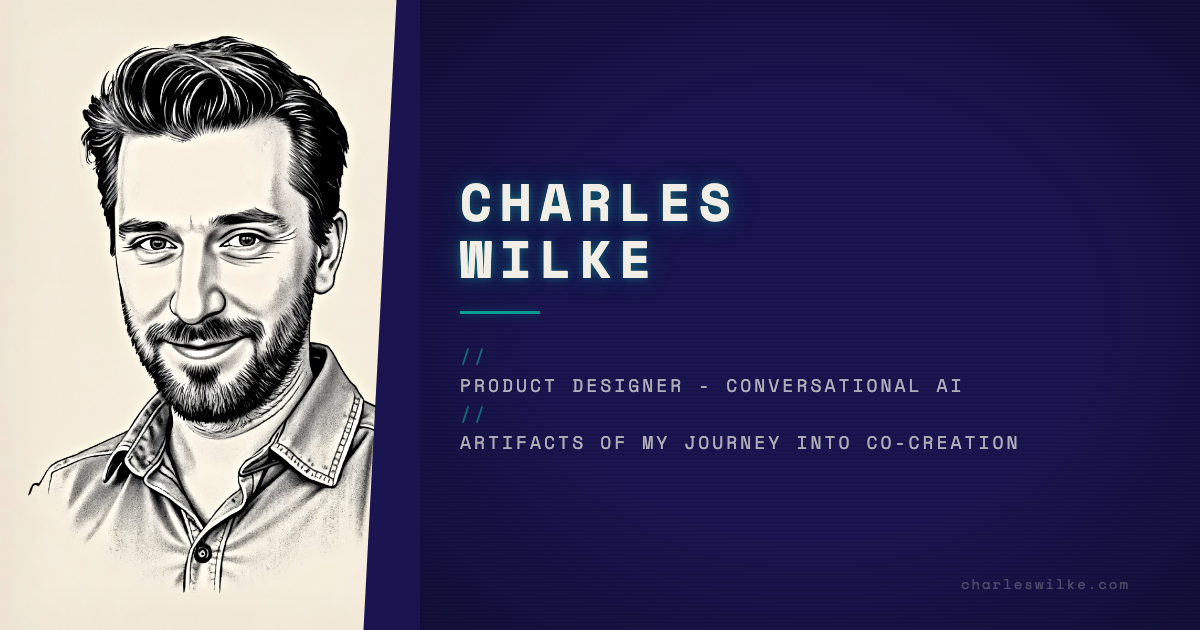
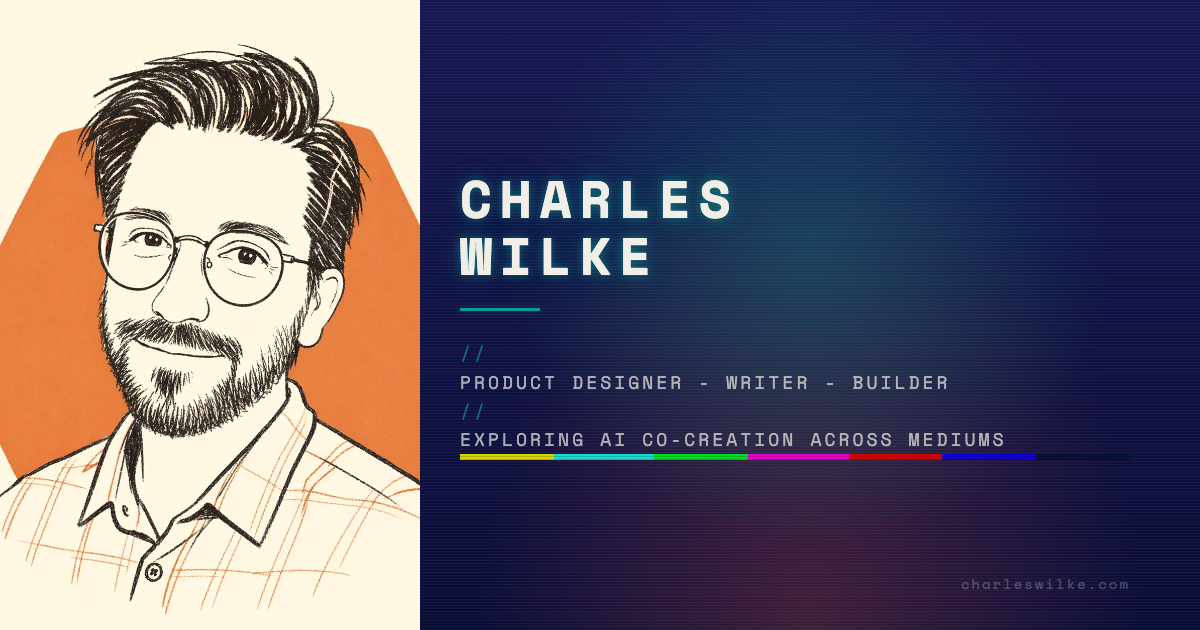
Identity refresh continued: tightened section shadows, OG card with rss-feed broadcast treatment
Section dividers: replace yellow border + soft glow with a tight 4px/0.85
inset shadow only on header- and footer-adjacent edges of the cream
sections (.dimensional-showcase top, .chatgpt-blurb bottom, .faq-section
both); inner section transitions are now clean.

OG card (og-image.html → images/og-image.png): swap portrait to cw4, drop
the diagonal slice for a straight edge, retitle subtitle to product
designer / writer / builder + exploring ai co-creation across mediums,
add the rss-feed broadcast treatment behind the text (cyan radio waves
radiating from the portrait) plus the SMPTE colorbar accent and the
site's 1px-on-3px cyan scanlines.

Cache bump to 20260514f including a fresh og-image cache buster so
social platforms refetch the new card.

diff --git a/og-image.html b/og-image.html
@@ -39,19 +39,8 @@ body {
     filter: grayscale(0.1) contrast(1.05);
 }
 
-/* Diagonal slice between portrait and right side */
-.og-portrait::after {
-    content: '';
-    position: absolute;
-    top: 0;
-    right: -40px;
-    width: 80px;
-    height: 100%;
-    background: #1a1550;
-    transform: skewX(-3deg);
-}
 
-/* Right: CRT content */
+/* Right: CRT content — mirrors the rss-feed background on the live site */
 .og-content {
     flex: 1;
     display: flex;
@@ -60,33 +49,73 @@ body {
     padding: 60px 70px 60px 40px;
     position: relative;
     overflow: hidden;
+    background:
+        radial-gradient(ellipse at 50% 40%, rgba(0, 247, 194, 0.18) 0%, transparent 55%),
+        radial-gradient(ellipse at 50% 100%, rgba(255, 90, 54, 0.22) 0%, transparent 60%),
+        linear-gradient(180deg, #1a1550 0%, #0e0a36 100%);
 }
 
-/* Scanlines */
+/* Radar sweep rings + vignette — matches the rss-feed::after on the live site,
+   but punched up so the rings actually read at 1200×630 thumbnail sizes */
+.og-radar {
+    position: absolute;
+    inset: 0;
+    background-image:
+        repeating-radial-gradient(
+            circle at -180px 230px,
+            transparent 0px,
+            transparent 70px,
+            rgba(0, 247, 194, 0.85) 70px,
+            rgba(0, 247, 194, 0.85) 74px
+        );
+    pointer-events: none;
+    z-index: 1;
+}
+
+/* Scanlines — matches the site's rss-feed cadence (1px on 3px) */
 .og-content::before {
     content: '';
     position: absolute;
     inset: 0;
     background: repeating-linear-gradient(
         0deg,
-        transparent 0px,
-        transparent 3px,
-        rgba(0, 0, 0, 0.15) 3px,
-        rgba(0, 0, 0, 0.15) 4px
+        rgba(0, 247, 194, 0.08) 0px,
+        rgba(0, 247, 194, 0.08) 1px,
+        transparent 1px,
+        transparent 3px
     );
     pointer-events: none;
     z-index: 2;
 }
 
-/* Subtle vignette */
-.og-content::after {
-    content: '';
+/* SMPTE colorbar accent strip across the bottom */
+.og-colorbar {
     position: absolute;
-    inset: 0;
-    background: radial-gradient(ellipse at center, transparent 50%, rgba(0, 0, 0, 0.3) 100%);
-    pointer-events: none;
-    z-index: 1;
+    bottom: 0;
+    left: 0;
+    right: 0;
+    height: 6px;
+    background:
+        repeating-linear-gradient(
+            0deg,
+            rgba(0, 0, 0, 0.16) 0px,
+            rgba(0, 0, 0, 0.16) 1px,
+            transparent 1px,
+            transparent 3px
+        ),
+        linear-gradient(
+            90deg,
+            #d8d300 0 14%,
+            #18d8d0 14% 29%,
+            #00d922 29% 43%,
+            #e500cb 43% 58%,
+            #d50000 58% 72%,
+            #1000d7 72% 86%,
+            #0b1036 86% 100%
+        );
+    z-index: 4;
 }
+
 
 .og-content > * {
     position: relative;
@@ -149,16 +178,18 @@ body {
 <body>
 <div class="og-card">
     <div class="og-portrait">
-        <img src="images/cw3.webp" alt="Charles Wilke">
+        <img src="images/cw4.webp" alt="Charles Wilke">
     </div>
     <div class="og-content">
+        <div class="og-radar"></div>
         <div class="og-name">Charles<br>Wilke</div>
         <div class="og-divider"></div>
         <div class="og-subtitle">
-            <span><span class="og-slash">//</span> product designer - conversational ai</span>
-            <span><span class="og-slash">//</span> artifacts of my journey into co-creation</span>
+            <span><span class="og-slash">//</span> product designer - writer - builder</span>
+            <span><span class="og-slash">//</span> exploring ai co-creation across mediums</span>
         </div>
         <div class="og-url">charleswilke.com</div>
+        <div class="og-colorbar"></div>
     </div>
 </div>
 </body>

diff --git a/styles.css b/styles.css
@@ -997,19 +997,7 @@ footer .electric {
     z-index: 2;
     overflow: hidden;
     isolation: isolate;
-    border-top: 4px solid #fff4a3;
-    border-bottom: 4px solid #fff4a3;
-    box-shadow:
-        0 -2px 4px rgba(255, 244, 163, 0.42),
-        0 -2px 10px rgba(255, 221, 51, 0.42),
-        0 -2px 20px rgba(255, 200, 0, 0.315),
-        0 -2px 32px rgba(255, 170, 0, 0.21),
-        0 2px 4px rgba(255, 244, 163, 0.42),
-        0 2px 10px rgba(255, 221, 51, 0.42),
-        0 2px 20px rgba(255, 200, 0, 0.315),
-        0 2px 32px rgba(255, 170, 0, 0.21),
-        inset 0 6px 14px rgba(255, 221, 51, 0.147),
-        inset 0 -6px 14px rgba(255, 221, 51, 0.147);
+    box-shadow: inset 0 4px 3px -1px rgba(0, 0, 0, 0.85);
 }
 
 .dimensional-showcase::before {
@@ -2100,19 +2088,9 @@ section.production-header.alice .production-details p strong {
     padding: 0;
     min-height: unset;
     display: block;
-    border-top: 4px solid #fff4a3;
-    border-bottom: 4px solid #fff4a3;
     box-shadow:
-        0 -2px 4px rgba(255, 244, 163, 0.42),
-        0 -2px 10px rgba(255, 221, 51, 0.42),
-        0 -2px 20px rgba(255, 200, 0, 0.315),
-        0 -2px 32px rgba(255, 170, 0, 0.21),
-        0 2px 4px rgba(255, 244, 163, 0.42),
-        0 2px 10px rgba(255, 221, 51, 0.42),
-        0 2px 20px rgba(255, 200, 0, 0.315),
-        0 2px 32px rgba(255, 170, 0, 0.21),
-        inset 0 6px 14px rgba(255, 221, 51, 0.147),
-        inset 0 -6px 14px rgba(255, 221, 51, 0.147);
+        inset 0 4px 3px -1px rgba(0, 0, 0, 0.85),
+        inset 0 -4px 3px -1px rgba(0, 0, 0, 0.85);
 }
 
 /* Rotated dot texture matching the dimensional-showcase / chatgpt-blurb sections */
@@ -5816,19 +5794,7 @@ html {
     z-index: 2;
     overflow: hidden;
     isolation: isolate;
-    border-top: 4px solid #fff4a3;
-    border-bottom: 4px solid #fff4a3;
-    box-shadow:
-        0 -2px 4px rgba(255, 244, 163, 0.42),
-        0 -2px 10px rgba(255, 221, 51, 0.42),
-        0 -2px 20px rgba(255, 200, 0, 0.315),
-        0 -2px 32px rgba(255, 170, 0, 0.21),
-        0 2px 4px rgba(255, 244, 163, 0.42),
-        0 2px 10px rgba(255, 221, 51, 0.42),
-        0 2px 20px rgba(255, 200, 0, 0.315),
-        0 2px 32px rgba(255, 170, 0, 0.21),
-        inset 0 6px 14px rgba(255, 221, 51, 0.147),
-        inset 0 -6px 14px rgba(255, 221, 51, 0.147);
+    box-shadow: inset 0 -4px 3px -1px rgba(0, 0, 0, 0.85);
 }
 
 .chatgpt-blurb::before {

diff --git a/index.html b/index.html
@@ -13,7 +13,7 @@
     <!-- Open Graph Meta Tags -->
     <meta property="og:title" content="Charles Wilke | Product Designer, Writer & Builder">
     <meta property="og:description" content="Conversational UX Product Designer, Writer and AI co-creation explorer.">
-    <meta property="og:image" content="https://charleswilke.com/images/og-image.png">
+    <meta property="og:image" content="https://charleswilke.com/images/og-image.png?v=20260514f">
     <meta property="og:image:width" content="1200">
     <meta property="og:image:height" content="630">
     <meta property="og:image:alt" content="Charles Wilke - Professional Portrait">
@@ -25,9 +25,9 @@
     <meta name="twitter:card" content="summary_large_image">
     <meta name="twitter:title" content="Charles Wilke | Product Designer, Writer & Builder">
     <meta name="twitter:description" content="Conversational UX Product Designer, Writer and AI co-creation explorer.">
-    <meta name="twitter:image" content="https://charleswilke.com/images/og-image.png">
+    <meta name="twitter:image" content="https://charleswilke.com/images/og-image.png?v=20260514f">
     <meta name="twitter:image:alt" content="Charles Wilke - Professional Portrait">
-    <link rel="stylesheet" href="styles.css?v=20260514e">
+    <link rel="stylesheet" href="styles.css?v=20260514f">
     <!-- Favicons / Pinned color -->
     <link rel="icon" href="/favicon.ico" sizes="any">
     <link rel="icon" type="image/gif" href="/favicon.gif">
@@ -51,7 +51,7 @@
       "name": "Charles Wilke",
       "url": "https://charleswilke.com",
       "jobTitle": "Product Designer, Writer & Builder",
-      "image": "https://charleswilke.com/images/og-image.png",
+      "image": "https://charleswilke.com/images/og-image.png?v=20260514f",
       "sameAs": [
         "https://www.linkedin.com/in/charles-wilke/",
         "https://instagram.com/tootsieonions",
@@ -60,7 +60,7 @@
       ]
     }
     </script>
-    <script src="/nav.js?v=20260514e"></script>
+    <script src="/nav.js?v=20260514f"></script>
 
     <header>
         <div class="header-bg"></div>
@@ -675,7 +675,7 @@
         <img class="cover-zoom-img" id="coverZoomImg" alt="">
     </div>
 
-    <script src="common.js?v=20260514e" defer></script>
-<script src="main.js?v=20260514e" defer></script>
+    <script src="common.js?v=20260514f" defer></script>
+<script src="main.js?v=20260514f" defer></script>
 </body>
 </html>

diff --git a/faq.html b/faq.html
@@ -11,7 +11,7 @@
     <link rel="canonical" href="https://charleswilke.com/faq.html">
     <meta property="og:title" content="FAQ | Charles Wilke">
     <meta property="og:description" content="Frequently asked questions about Charles Wilke, AI deployment consulting, projection design, and the exploring l.ai.bor project.">
-    <meta property="og:image" content="https://charleswilke.com/images/og-image.png">
+    <meta property="og:image" content="https://charleswilke.com/images/og-image.png?v=20260514f">
     <meta property="og:image:alt" content="Charles Wilke - Professional Portrait">
     <meta property="og:url" content="https://charleswilke.com/faq.html">
     <meta property="og:type" content="website">
@@ -20,9 +20,9 @@
     <meta name="twitter:card" content="summary_large_image">
     <meta name="twitter:title" content="FAQ | Charles Wilke">
     <meta name="twitter:description" content="Frequently asked questions about Charles Wilke, AI deployment consulting, projection design, and the exploring l.ai.bor project.">
-    <meta name="twitter:image" content="https://charleswilke.com/images/og-image.png">
+    <meta name="twitter:image" content="https://charleswilke.com/images/og-image.png?v=20260514f">
     <meta name="twitter:image:alt" content="Charles Wilke - Professional Portrait">
-    <link rel="stylesheet" href="styles.css?v=20260514e">
+    <link rel="stylesheet" href="styles.css?v=20260514f">
     <!-- Favicons / Fonts -->
     <link rel="icon" href="/favicon.ico" sizes="any">
     <link rel="icon" type="image/gif" href="/favicon.gif">
@@ -78,7 +78,7 @@
       ]
     }
     </script>
-    <script src="/nav.js?v=20260514e"></script>
+    <script src="/nav.js?v=20260514f"></script>
     <header>
         <div class="header-bg"></div>
         <div class="grid-overlay"></div>
@@ -636,7 +636,7 @@
             <span class="footer-note">intention defines probability</span>
         </div>
     </footer>
-    <script src="common.js?v=20260514e" defer></script>
+    <script src="common.js?v=20260514f" defer></script>
 
     <script>
     (function() {

diff --git a/alice-in-wonderland.html b/alice-in-wonderland.html
@@ -26,7 +26,7 @@
     <meta name="twitter:description" content="Full show coverage with AI-assisted projections for UNO's production of Alice in Wonderland.">
     <meta name="twitter:image" content="https://charleswilke.com/images/aiw/aiw1.png">
     <meta name="twitter:image:alt" content="Alice in Wonderland Projection Design">
-    <link rel="stylesheet" href="styles.css?v=20260514e">
+    <link rel="stylesheet" href="styles.css?v=20260514f">
     <!-- Favicons / Fonts -->
     <link rel="icon" href="/favicon.ico" sizes="any">
     <link rel="icon" type="image/gif" href="/favicon.gif">
@@ -36,7 +36,7 @@
     <link href="https://fonts.googleapis.com/css2?family=Exo:wght@400;700&family=Space+Mono:wght@400;700&family=Orbitron:wght@400;700&display=swap" rel="stylesheet">
 </head>
 <body>
-    <script src="/nav.js?v=20260514e"></script>
+    <script src="/nav.js?v=20260514f"></script>
     <header>
         <div class="header-bg"></div>
         <div class="grid-overlay"></div>
@@ -253,7 +253,7 @@
             <span class="footer-note">intention defines probability</span>
         </div>
     </footer>
-    <script src="common.js?v=20260514e" defer></script>
+    <script src="common.js?v=20260514f" defer></script>
 
     <div class="lightbox" id="lightbox">
         <button class="lightbox-close" aria-label="Close lightbox">&times;</button>

diff --git a/jersey-boys.html b/jersey-boys.html
@@ -26,7 +26,7 @@
     <meta name="twitter:description" content="170 AI-assisted projections for Omaha Community Playhouse's production of Jersey Boys.">
     <meta name="twitter:image" content="https://charleswilke.com/images/jb/jb1.webp">
     <meta name="twitter:image:alt" content="Jersey Boys Projection Design">
-    <link rel="stylesheet" href="styles.css?v=20260514e">
+    <link rel="stylesheet" href="styles.css?v=20260514f">
     <!-- Favicons / Fonts -->
     <link rel="icon" href="/favicon.ico" sizes="any">
     <link rel="icon" type="image/gif" href="/favicon.gif">
@@ -36,7 +36,7 @@
     <link href="https://fonts.googleapis.com/css2?family=Exo:wght@400;700&family=Space+Mono:wght@400;700&family=Orbitron:wght@400;700&display=swap" rel="stylesheet">
 </head>
 <body>
-    <script src="/nav.js?v=20260514e"></script>
+    <script src="/nav.js?v=20260514f"></script>
     <header>
         <div class="header-bg"></div>
         <div class="grid-overlay"></div>
@@ -141,7 +141,7 @@
             <span class="footer-note">intention defines probability</span>
         </div>
     </footer>
-    <script src="common.js?v=20260514e" defer></script>
+    <script src="common.js?v=20260514f" defer></script>
 
     <div class="lightbox" id="lightbox">
         <button class="lightbox-close" aria-label="Close lightbox">&times;</button>
